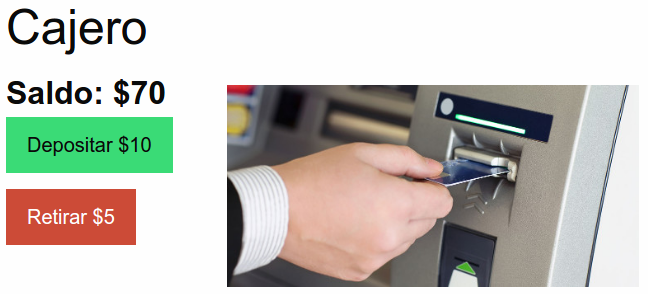
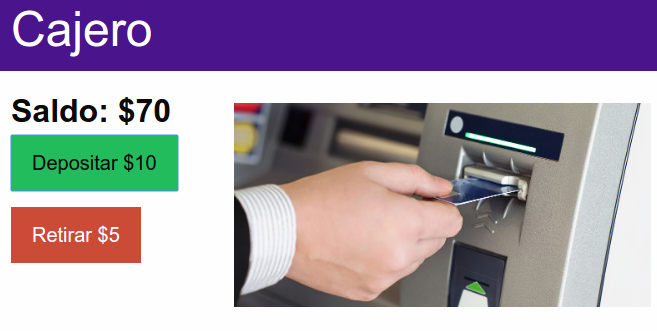
[update] projects

diff --git a/level1/public/index.html b/level1/public/index.html
@@ -10,9 +10,11 @@
   </head>
   <body>
     <main>
-      <div class="row column">
-        <h1>Carro</h1>
-      </div>
+      <header class="header">
+        <div class="row column">
+          <h1>Carro</h1>
+        </div>
+      </header>
       <div class="row column">
         <button id="power" class="button">Arrancar</button>
         <button class="march button secondary" data-n="-1">Reversa</button>

diff --git a/level0/public/index.html b/level0/public/index.html
@@ -10,9 +10,11 @@
   </head>
   <body>
     <main>
-      <div class="row column">
-        <h1>Cajero</h1>
-      </div>
+      <header class="header">
+        <div class="row column">
+          <h1>Cajero</h1>
+        </div>
+      </header>
       <div class="row">
         <div class="column small-12 medium-4">
           <strong>Saldo: $<span id="balance"></span></strong><br>

diff --git a/level2/public/index.html b/level2/public/index.html
@@ -10,9 +10,11 @@
   </head>
   <body>
     <main>
-      <div class="row column">
-        <h1>Cajero</h1>
-      </div>
+      <header class="header">
+        <div class="row column">
+          <h1>Cajero</h1>
+        </div>
+      </header>
       <div class="row">
         <div class="column small-12 medium-4">
           <strong>

diff --git a/level1/public/styles.css b/level1/public/styles.css
@@ -1,3 +1,13 @@
+/* Header */
+
+.header {
+  margin-bottom: 1rem;
+  color: #fff;
+  background-color: #263238;
+}
+
+/* Car */
+
 .car {
   position: relative;
   display: block;

diff --git a/level0/public/styles.css b/level0/public/styles.css
@@ -7,3 +7,11 @@ img {
   margin: 1rem 0;
   width: 100%;
 }
+
+/* Header */
+
+.header {
+  margin-bottom: 1rem;
+  color: #fff;
+  background-color: #4A148C;
+}

diff --git a/level2/public/styles.css b/level2/public/styles.css
@@ -7,3 +7,11 @@ img {
   margin: 1rem 0;
   width: 100%;
 }
+
+/* Header */
+
+.header {
+  margin-bottom: 1rem;
+  color: #fff;
+  background-color: #3E2723;
+}
